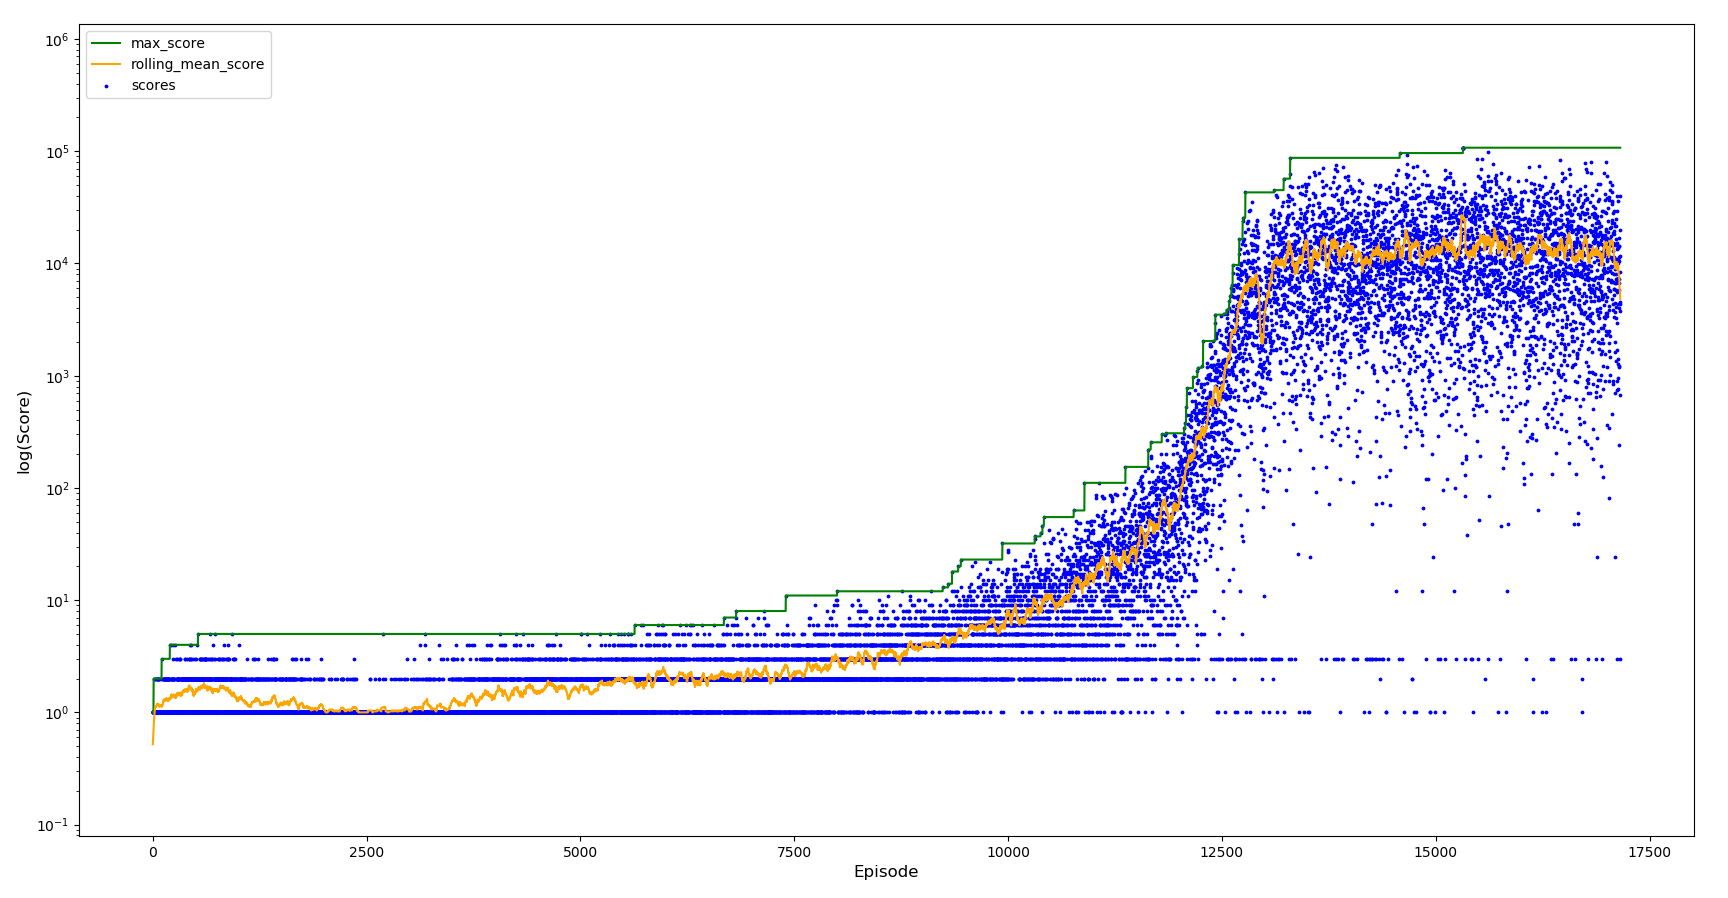
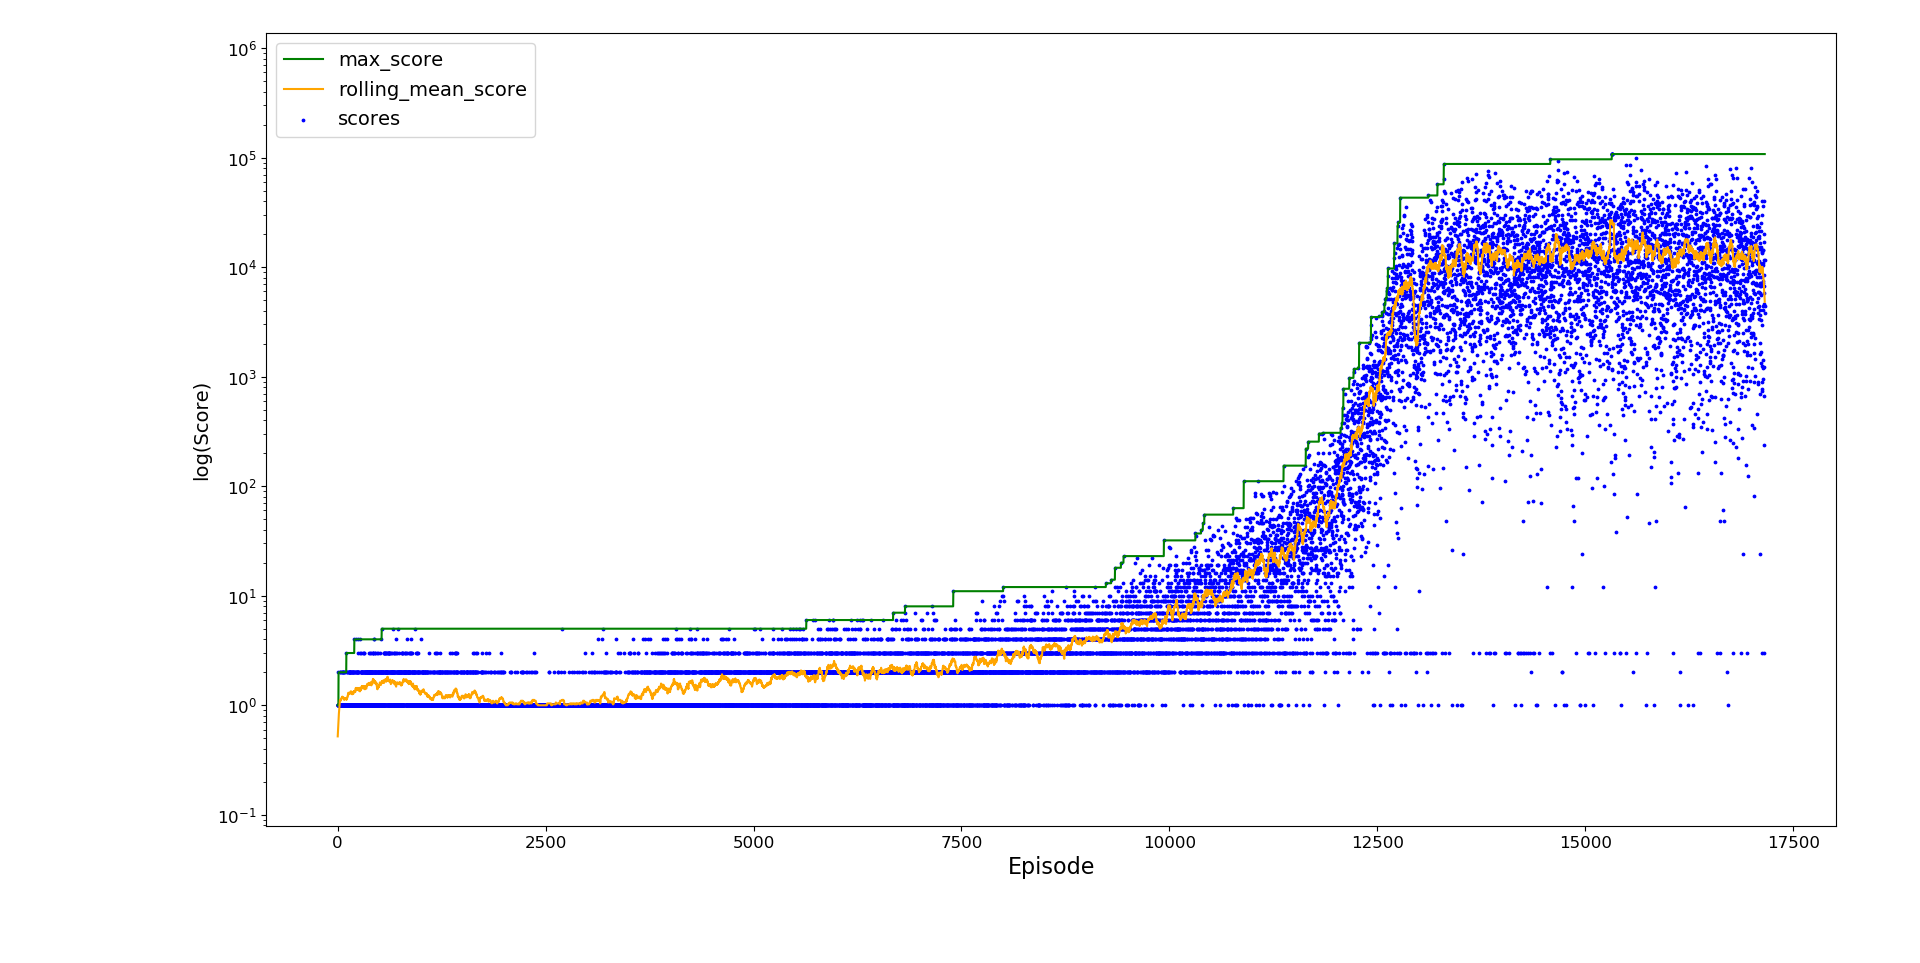
Update plot fonts

diff --git a/analysis.py b/analysis.py
@@ -20,11 +20,11 @@ def plot_performance(agent_states: dict, window=50, xlim=None, ylim=None, logy=F
     """Plot the training performance."""
     episodes, scores, max_scores = agent_states['episodes'], agent_states['scores'], agent_states['max_scores']
     f, ax = plt.subplots()
-    plt.ylabel('Score', fontsize=12)
-    plt.xlabel('Episode', fontsize=12)
+    plt.ylabel('Score', fontsize=16)
+    plt.xlabel('Episode', fontsize=16)
     if logy:
         ax.set_yscale('log')
-        plt.ylabel('log(Score)', fontsize=12)
+        plt.ylabel('log(Score)', fontsize=14)
         scores = [x+1 for x in scores]
         max_scores = [x+1 for x in max_scores]
     plt.scatter(episodes, scores, label='scores', color='b', s=3)
@@ -35,7 +35,9 @@ def plot_performance(agent_states: dict, window=50, xlim=None, ylim=None, logy=F
         plt.xlim(xlim)
     if ylim:
         plt.ylim(ylim)
-    plt.legend(loc='upper left', fontsize=10)
+    ax.tick_params(axis="x", labelsize=12)
+    ax.tick_params(axis="y", labelsize=12)
+    plt.legend(loc='upper left', fontsize=14)
     plt.tight_layout()
     plt.show()
 

diff --git a/README.md b/README.md
@@ -21,11 +21,10 @@ The agent was initially trained for around 10,000 episodes without any explorati
 Slowly but surely the agent is learning.
 
 <p align="left">
-    <img src="results/training_values.png" alt="training" width="400"/> 
-    <img src="results/training_values_logy.png" alt="training_logy" width="400"/> 
+    <img src="results/training_values_logy.png" alt="training_logy" width="600"/> 
 </p>
 
-After around 10,000 episodes the agent is almost able to reach a score of 1 million. Log the y-axis so that the rolling increase in score can be seen more clearly.
+After around 10,000 episodes the agent is almost able to reach a score of 1 million. The y-axis has been logged so that the rolling increase in score can be seen more clearly.
 
 ### Experience Replay: Catastrophic Forgetting
 
